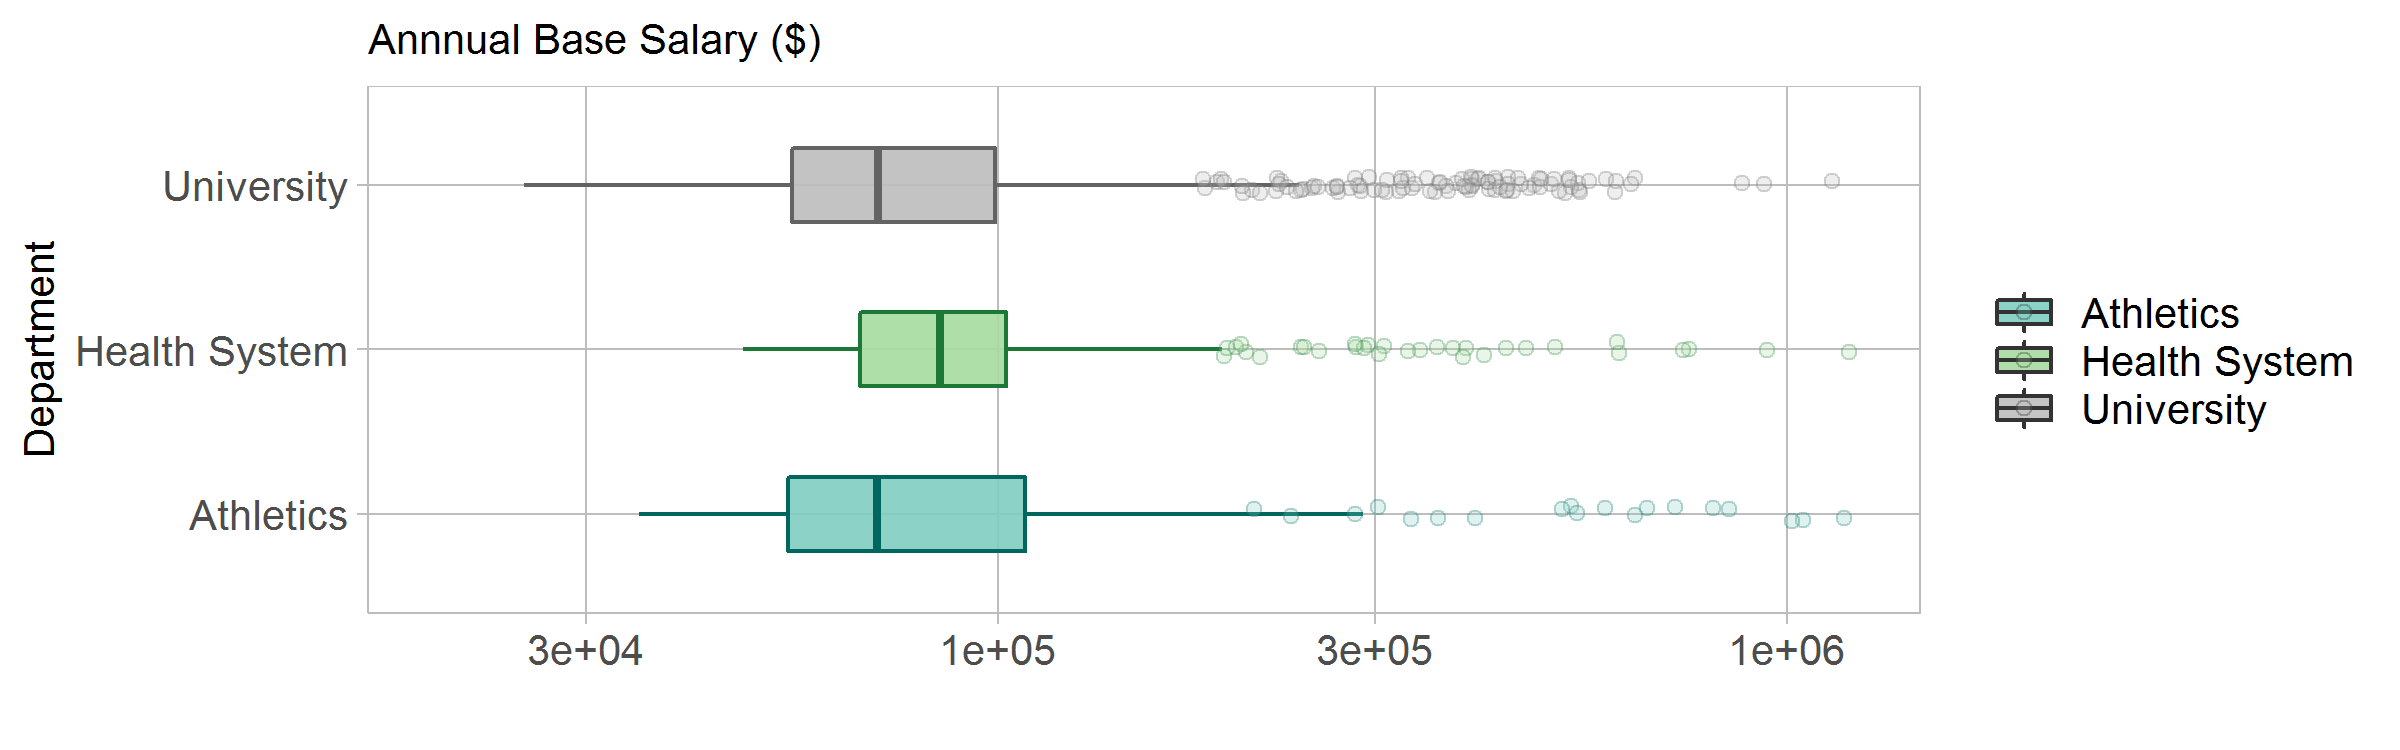
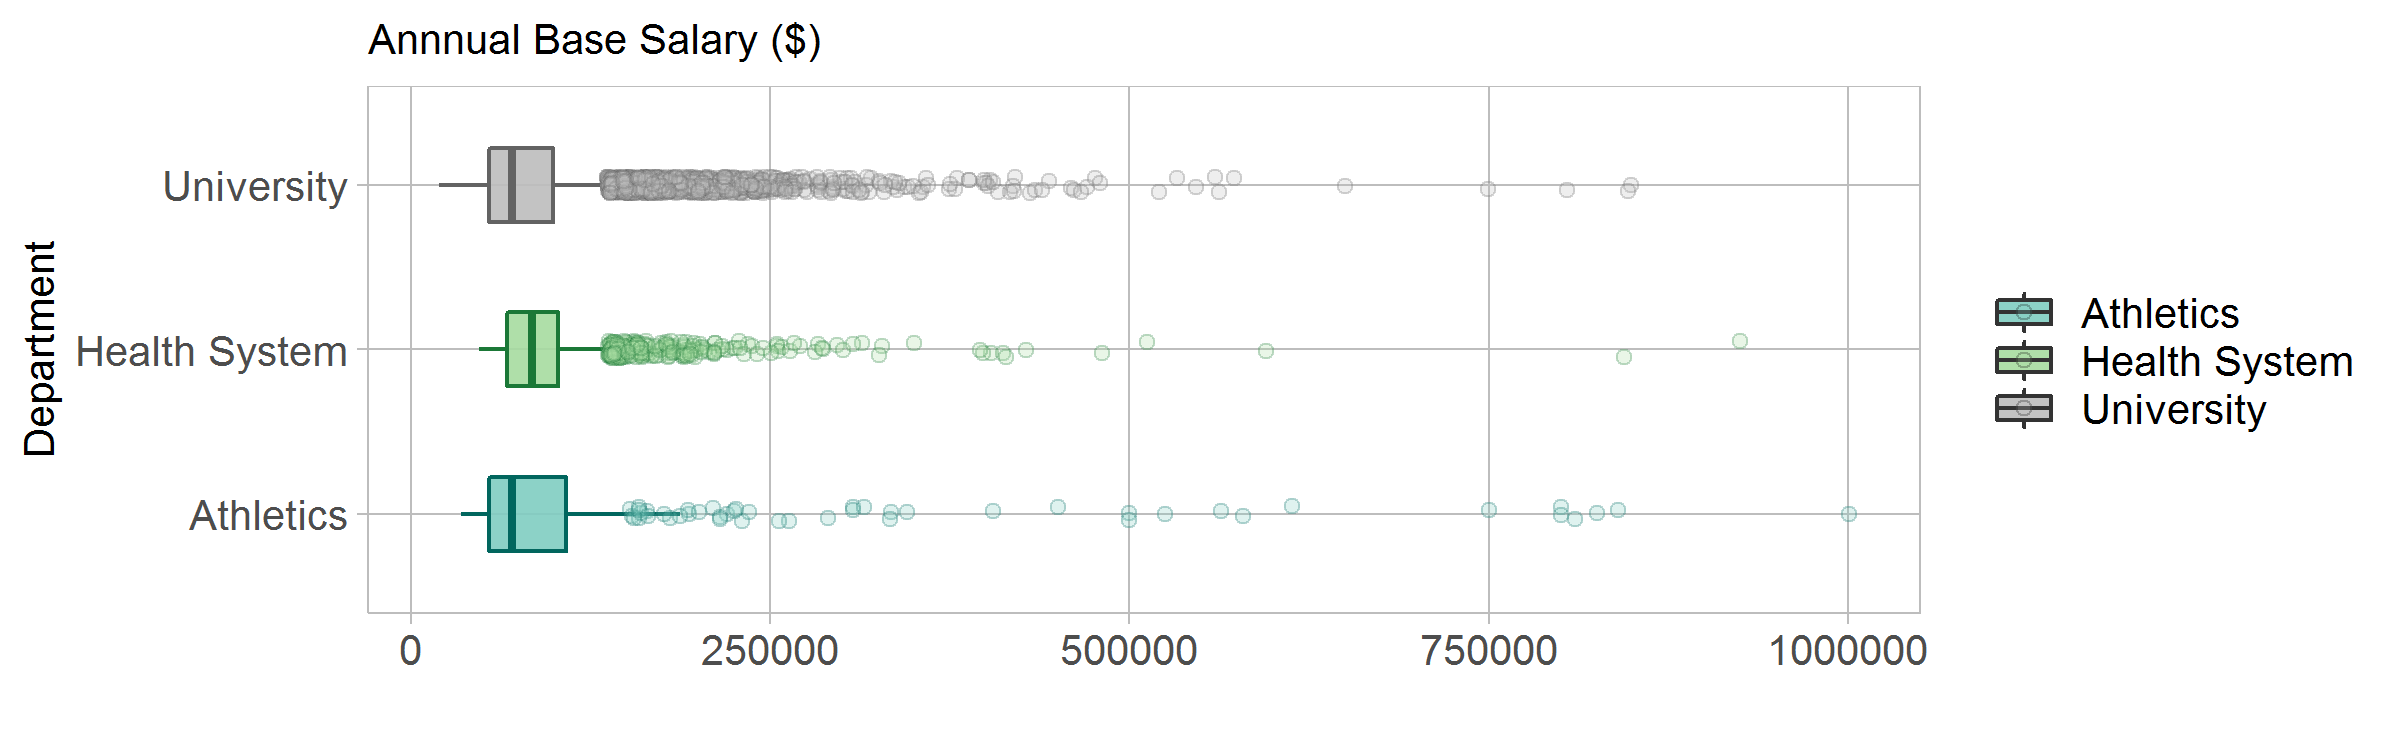
comments and such

diff --git a/README.md b/README.md
@@ -15,7 +15,7 @@ This portfolio includes data and graphics for both my personal and professional 
 Displays and critiques
 ----------------------
 
-[Display 1](reports/d1-report.md) Ohio State University Annual Base Salary Review This report showcases a box plot with Annual Base Salary data for The Ohio State University. The data comes directly from their website at <https://apps.hr.osu.edu/salaries/> . In this report, the annual base salaries are compared across three depratments in the university. These departments are the university itself, its athletic department, and its adjunct health system. Since Ohio State is know widely for their althetics, I wanted to take an in depth look at where the real hiring priorities for the university lie. \#\# Discussion notes
+[Display 1](reports/d1-report.md) 2018 Ohio State University Annual Base Salary Review This report showcases a box plot with Annual Base Salary data for The Ohio State University. The data comes directly from their website at <https://apps.hr.osu.edu/salaries/> . In this report, the annual base salaries are compared across three depratments in the university. These departments are the university itself, its athletic department, and its adjunct health system. Since Ohio State is know widely for their althetics, I wanted to take an in depth look at where the real hiring priorities for the university lie. \#\# Discussion notes
 
 [Reading responses](reports/reading-responses.md) Notes from the data graphics literature on elements of design and visual rhetoric.
 

diff --git a/reports/d1-presentation-prompts.md b/reports/d1-presentation-prompts.md
@@ -29,4 +29,4 @@ Comments from peers
 -   From the Doumont paper, what type of story is being told?
 -   Is the graph type suited to the data structure?
 -   Other suggestion
--   etc
+-   etc intro into data then graph then critique. cut function to bin the salary data. Data based seleciton points. Try going to box plots with salary ranges on the x axis and number on the y. Find a more interesting story to tell with the data.
